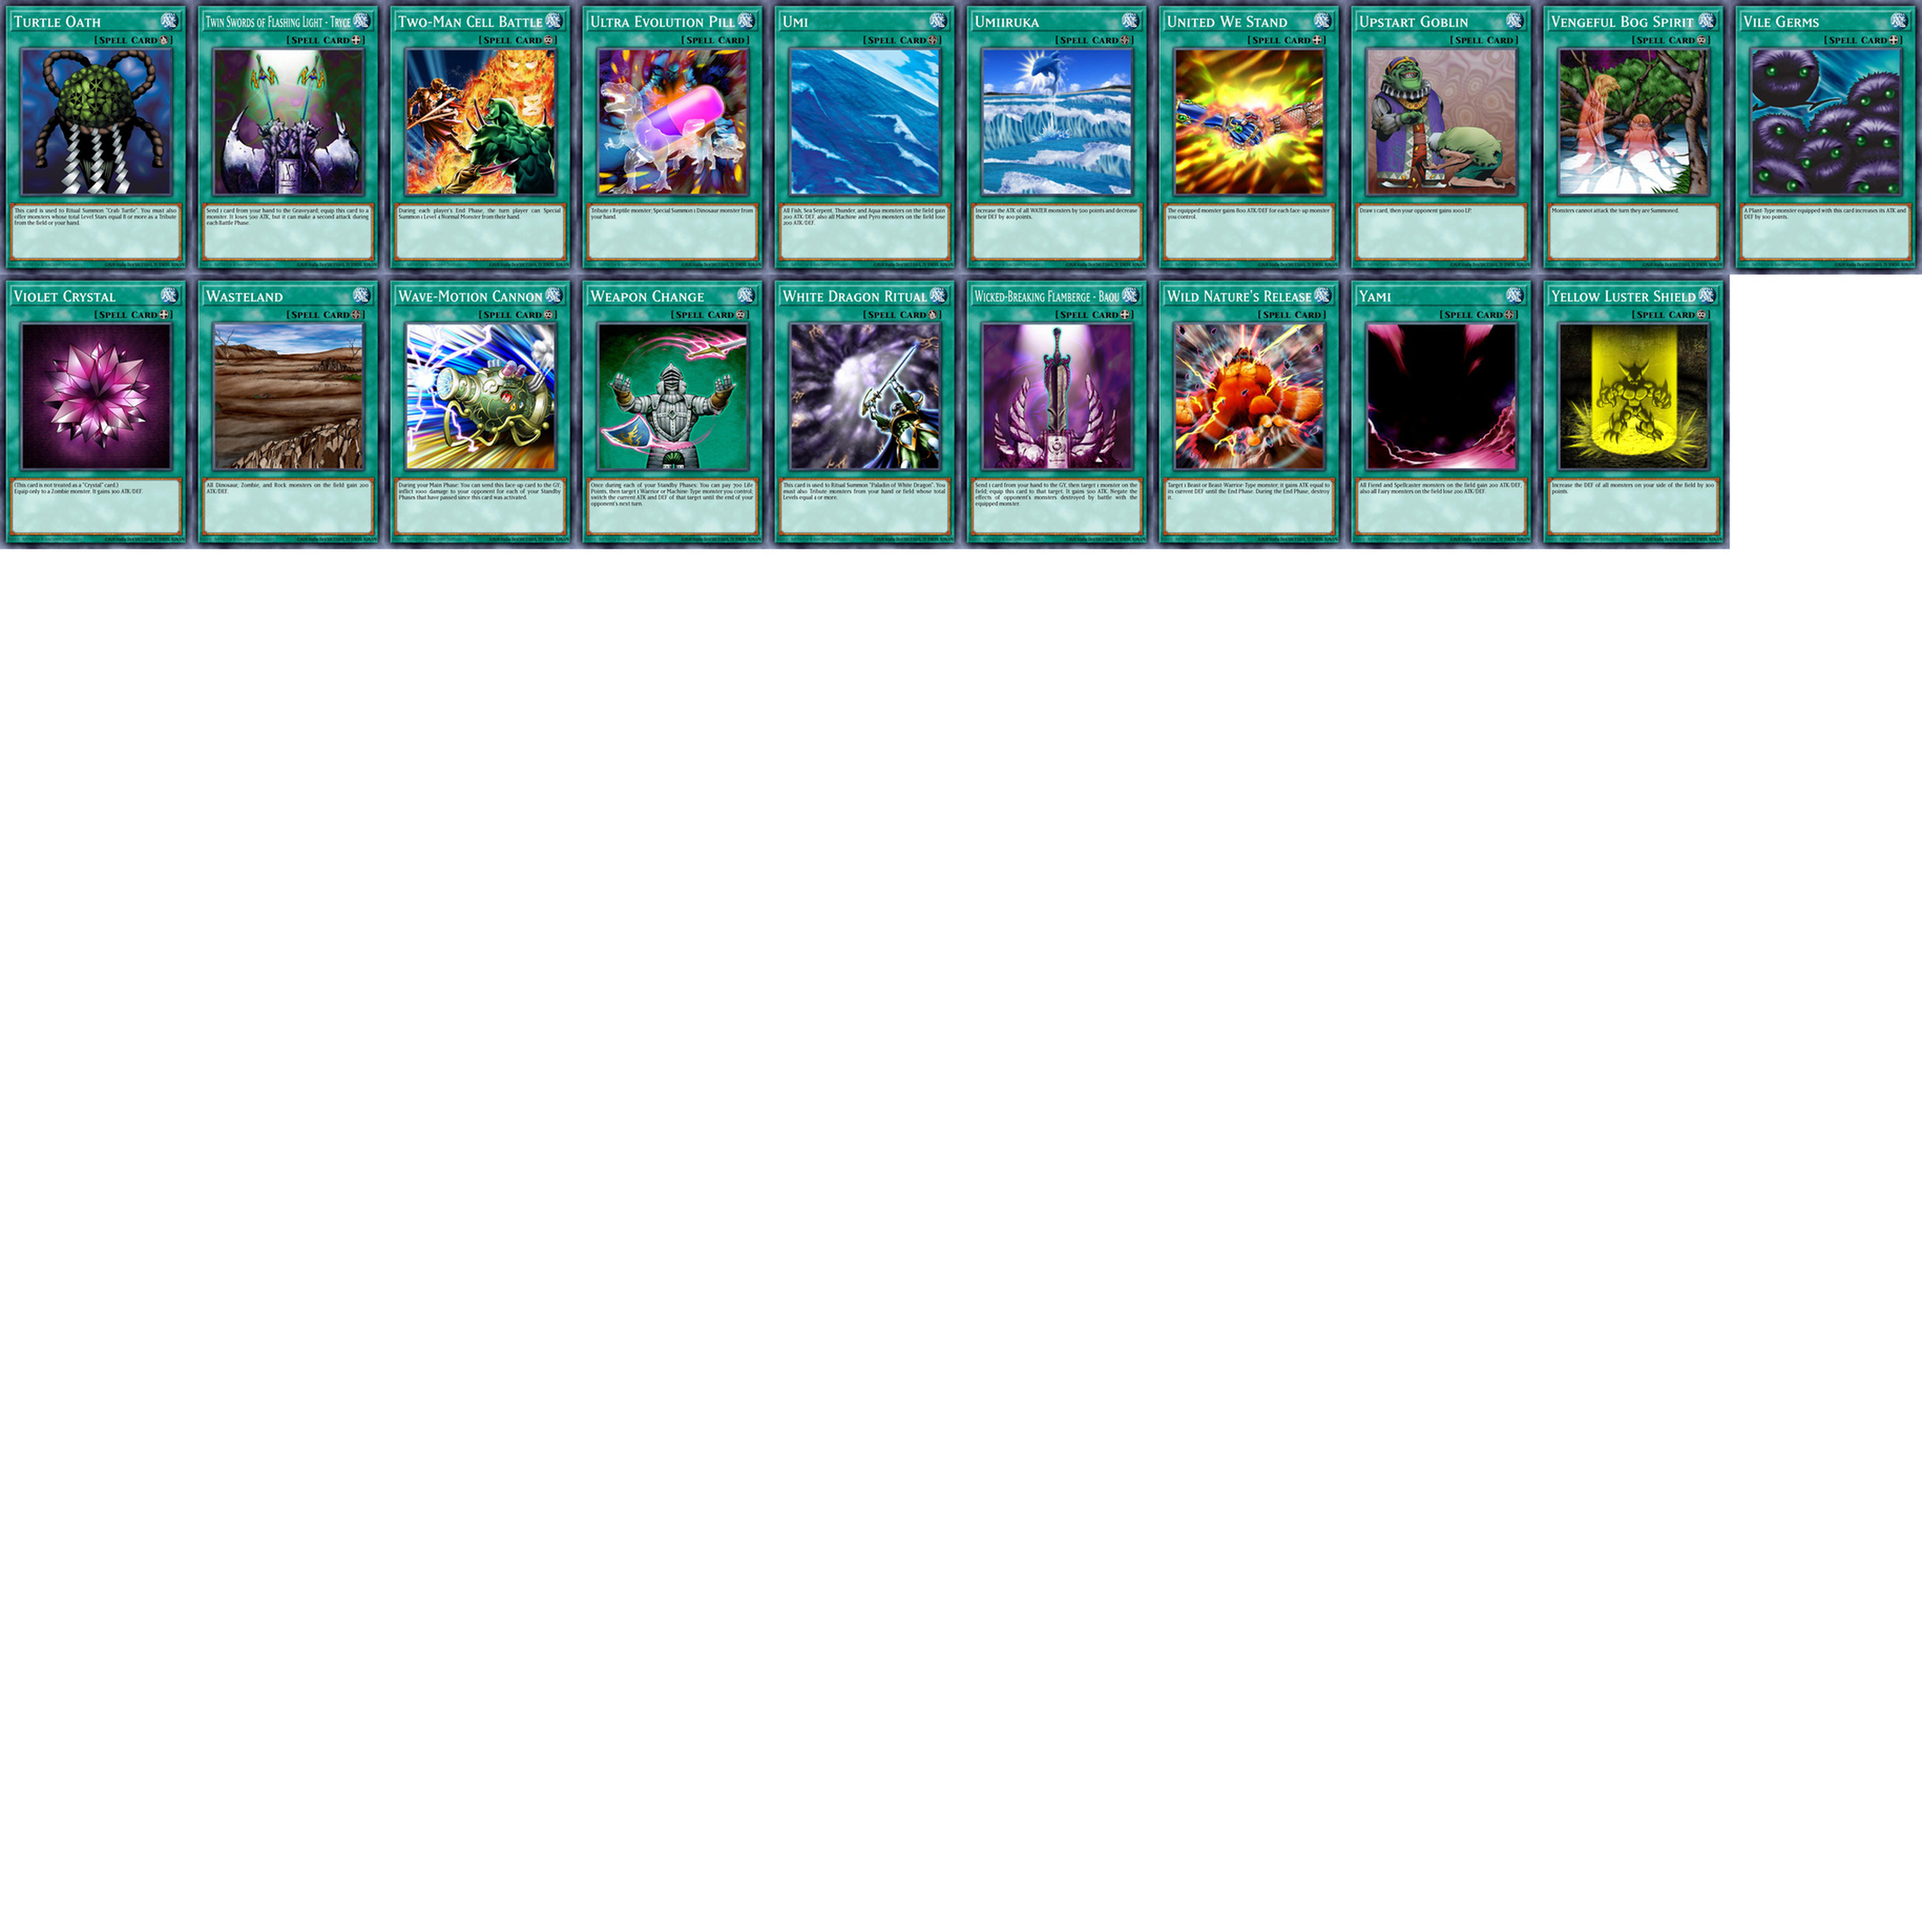
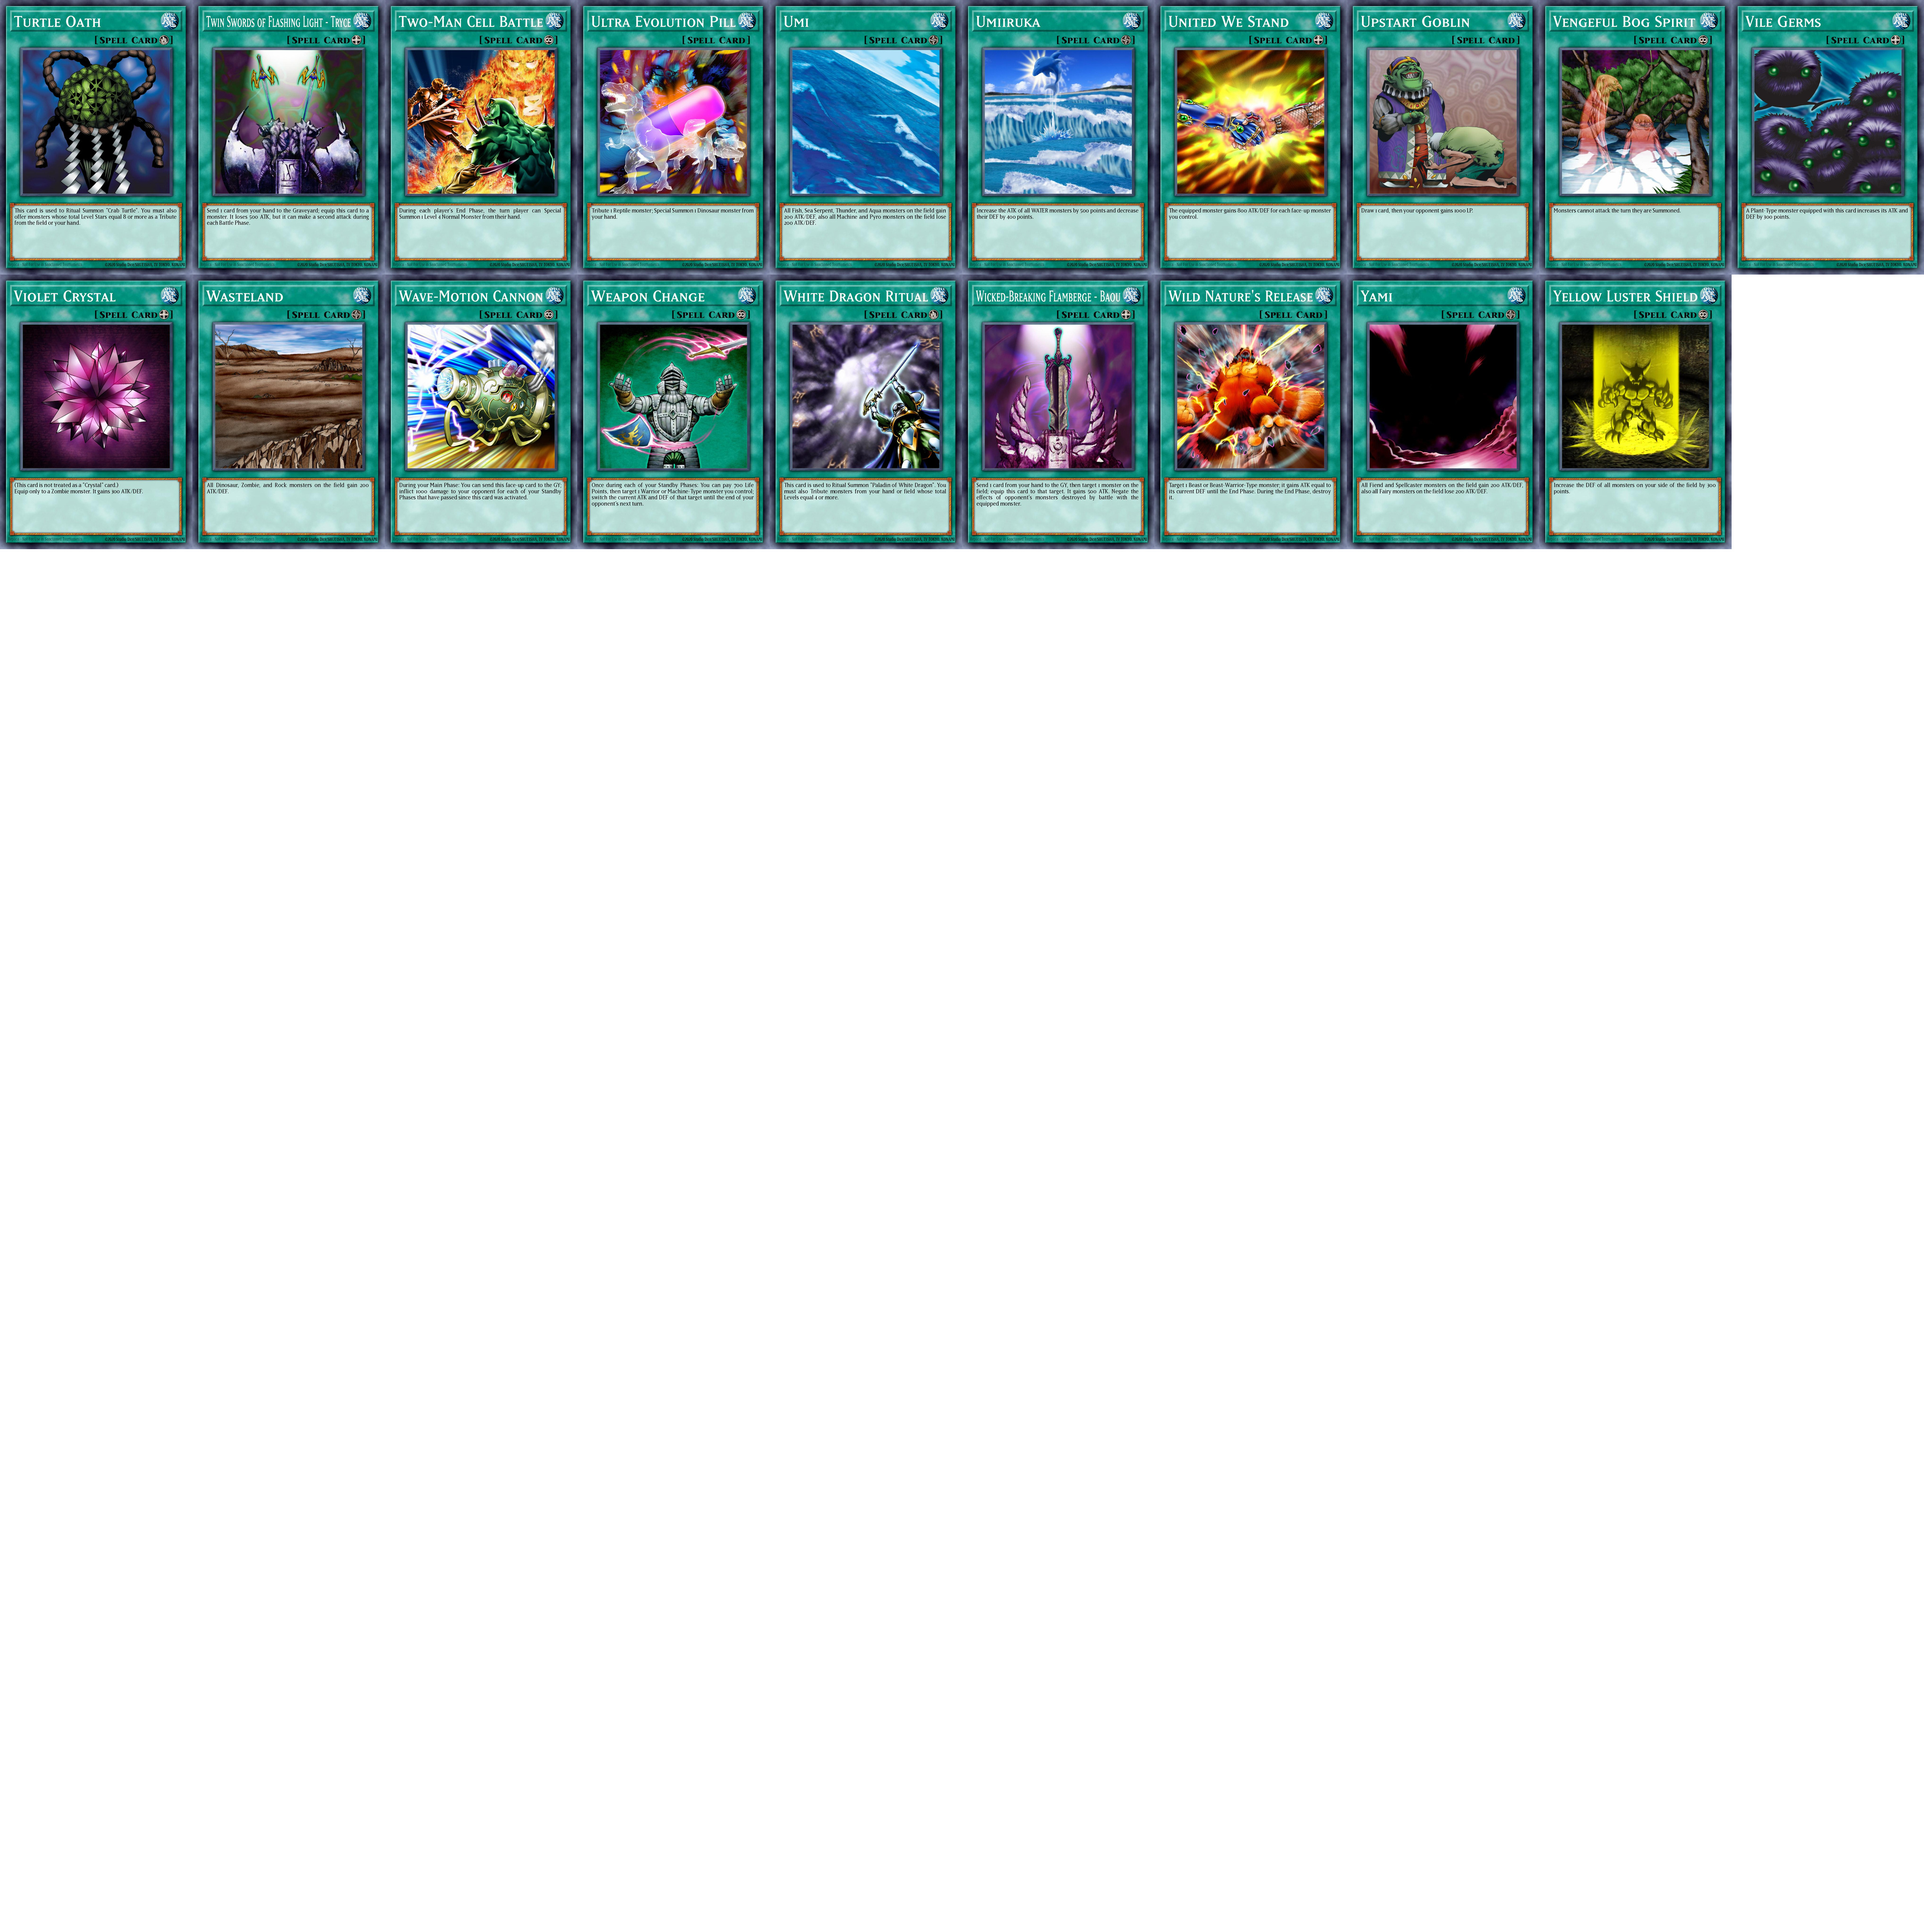
Fix TTS image loading with exactly divisible dimensions
- Changed grid size to 4100x4095 (410x585 per card)
- Ensures perfect pixel alignment for TTS compatibility
- Applied TTS-specific JPEG optimization
- Should resolve image format loading issues

🤖 Generated with [Claude Code](https://claude.ai/code)

diff --git a/fix_card_quality.py b/fix_card_quality.py
@@ -8,21 +8,21 @@ def create_single_card_back():
     
     # Convert to RGB and resize to match front card dimensions
     back_img = back_img.convert('RGB')
-    back_img = back_img.resize((409, 585), Image.LANCZOS)  # Match front card size
+    back_img = back_img.resize((410, 585), Image.LANCZOS)  # Match front card size
     
     # Save as JPEG for TTS
     back_img.save("C:\\GitHub\\YGO-TTS-Assets\\card-backs\\yugioh_card_back_single.jpg", 
                   'JPEG', quality=95, optimize=True)
     
-    print("Created single card back: yugioh_card_back_single.jpg (409x585)")
+    print("Created single card back: yugioh_card_back_single.jpg (410x585)")
 
 def increase_card_quality():
     """Recreate grids with higher quality and larger card sizes"""
-    print("Recreating grids with 4096x4096 size...")
+    print("Recreating grids with exactly divisible dimensions...")
     
-    # 4096x4096 grid settings
-    CARD_WIDTH = 409   # 4096 / 10 = 409.6, rounded to 409 pixels per card
-    CARD_HEIGHT = 585  # 4096 / 7 = 585.1, rounded to 585 pixels per card  
+    # Use dimensions that divide evenly and are TTS-friendly
+    CARD_WIDTH = 410   # 410*10=4100 pixels wide
+    CARD_HEIGHT = 585  # 585*7=4095 pixels tall
     CARDS_PER_ROW = 10
     CARDS_PER_COL = 7
     
@@ -149,7 +149,7 @@ def main():
     
     print("\nAll fixes complete!")
     print("- Single card back created (not grid)")
-    print("- Card quality increased (409x585 per card, 4096x4096 grids)")  
+    print("- Card quality increased (410x585 per card, 4100x4095 grids)")  
     print("- TTS JSON files updated")
 
 if __name__ == "__main__":

diff --git a/fix_tts_images.py b/fix_tts_images.py
@@ -13,9 +13,9 @@ def optimize_image_for_tts(input_path, output_path, resize_to_grid=True):
         
         # Only resize grids, not individual cards
         if resize_to_grid:
-            # Current TTS grid: 10 cards × 7 cards at 4096x4096
-            expected_width = 4096
-            expected_height = 4096
+            # Current TTS grid: 10 cards × 7 cards, exactly divisible
+            expected_width = 4100  # 410*10
+            expected_height = 4095 # 585*7
             
             if img.size != (expected_width, expected_height):
                 img = img.resize((expected_width, expected_height), Image.LANCZOS)
